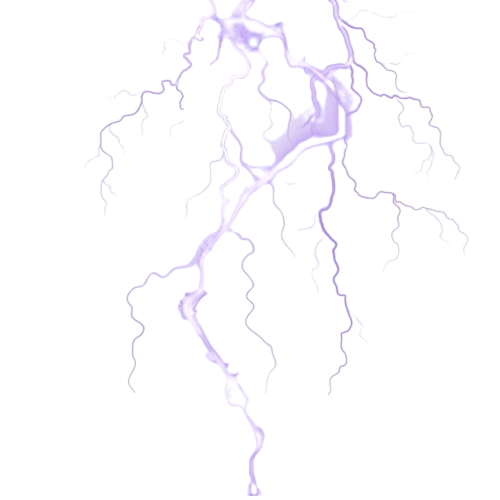
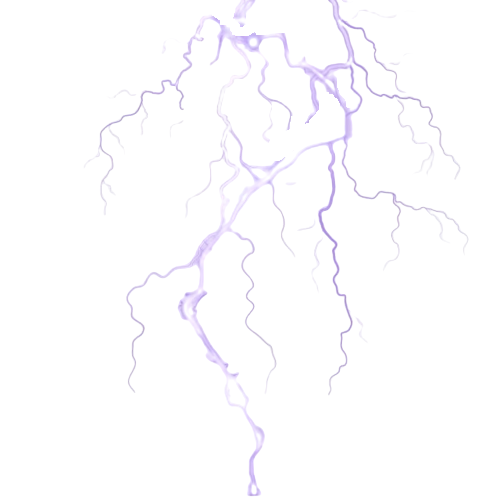
WIP animation gsap

Changed region(s): [[0.54, 0.15, 0.72, 0.33], [0.42, 0.0, 0.57, 0.09]]

diff --git a/pages/index.js b/pages/index.js
@@ -5,15 +5,28 @@ import Link from "next/link";
 import { gsap } from "gsap";
 import { useEffect, useRef } from "react";
 
+import thunder0 from "../public/gsap/thunder0.png";
 import thunder1 from "../public/gsap/thunder1.png";
+import thunder2 from "../public/gsap/thunder2.png";
 
 export default function Home() {
   const shadowBallRef = useRef(null);
+  const thunder0Ref = useRef(null);
   const ThunderRef = useRef(null);
   const thunder1Ref = useRef(null);
   const thunder1Ref2 = useRef(null);
   const thunder1Ref3 = useRef(null);
   const thunder1Ref4 = useRef(null);
+  const thunder1Ref5 = useRef(null);
+  const thunder1Ref6 = useRef(null);
+
+  const thunder2Ref = useRef(null);
+  const thunder2Ref2 = useRef(null);
+  const thunder2Ref3 = useRef(null);
+  const thunder2Ref4 = useRef(null);
+  const thunder2Ref5 = useRef(null);
+  const thunder2Ref6 = useRef(null);
+
 
   useEffect(() => {
     gsap.fromTo(
@@ -29,42 +42,42 @@ export default function Home() {
       }
     );
 
-    // gsap.fromTo(
-    //   thunder1Ref.current,
-    //   {
-    //     rotate: 0,
-    //     scale:0
-    //   },
-    //   {
-    //     rotate: -360,
-    //     repeat: -1,
-    //     duration: 2,
-    //     ease: "none",
-    //     transformOrigin:"56% 0%",
-    //     scale: .5,
-    //     // yoyo: true
-    //   }
-    // );
-    gsap.timeline()
-      .fromTo(ThunderRef.current.children ,{
+    gsap.fromTo(
+      thunder0Ref.current,
+      {
+        rotate: 0,
+        opacity: .4,
+      },
+      {
+        rotate: -360,
+        repeat: -1,
+        duration: 2,
+        ease: "none",
+        opacity: .1
+        // yoyo: true
+      }
+    );
 
-            rotate: 0,
-            scale:0,
-            opacity: 3
-          },
-          {
-            transformOrigin:"56% 0%",
-            repeat: -1,
-            repeatRefresh: true,
-            ease: "none",
-            duration: 2,
-            stagger:"random(0.2, 5)",
-            delay:"random(0.2, 5)",
-            rotate: "random(-360, 360)",
-            scale: .5,
-            opacity: 0
-            // yoyo: true
-          })
+    gsap.timeline()
+      .fromTo(ThunderRef.current.children, {
+
+        rotate: 0,
+        scale: 0,
+        opacity: 3
+      },
+        {
+          transformOrigin: "56% 0%",
+          repeat: -1,
+          repeatRefresh: true,
+          ease: "none",
+          duration: 2,
+          stagger: "random(0.2, 5)",
+          delay: "random(0.2, 5)",
+          rotate: "random(-360, 360)",
+          scale: .5,
+          opacity: 0
+          // yoyo: true
+        })
   }, []);
 
   return (
@@ -83,11 +96,27 @@ export default function Home() {
             src={shadowBall.src}
             className={styles.shadowBall}
           ></img>
+
+            <img ref={thunder0Ref} src={thunder0.src}  className={styles.thunderRings}></img>
+
           <div ref={ThunderRef} className={styles.thunders}>
+
+
             <img ref={thunder1Ref} src={thunder1.src}></img>
             <img ref={thunder1Ref2} src={thunder1.src}></img>
             <img ref={thunder1Ref3} src={thunder1.src}></img>
             <img ref={thunder1Ref4} src={thunder1.src}></img>
+            <img ref={thunder1Ref5} src={thunder1.src}></img>
+            <img ref={thunder1Ref6} src={thunder1.src}></img>
+
+            <img ref={thunder2Ref} src={thunder2.src}></img>
+            <img ref={thunder2Ref2} src={thunder2.src}></img>
+            <img ref={thunder2Ref3} src={thunder2.src}></img>
+            <img ref={thunder2Ref4} src={thunder2.src}></img>
+            <img ref={thunder2Ref5} src={thunder2.src}></img>
+            <img ref={thunder2Ref6} src={thunder2.src}></img>
+
+
           </div>
         </div>
         <img src={alakazam.src} className={styles.img}></img>

diff --git a/styles/Home.module.css b/styles/Home.module.css
@@ -2,6 +2,7 @@
   background: url("../public/background.png");
   width: 100%;
   min-height: 100vh;
+  background-size: cover;
 }
 
 .page p {
@@ -43,9 +44,10 @@
 
 .img {
   position: absolute;
-  bottom: 3rem;
-  right: 3rem;
-  background: url("../public/mega alakazam.gif");
+  bottom: 1rem;
+  right: 1rem;
+  width: 35%;
+  background-repeat: no-repeat;
 }
 
 .containerShadowball {
@@ -58,6 +60,12 @@
 .shadowBall {
     height: 20em;
     position: relative;
+}
+
+.thunderRings{
+  position: absolute;
+  transform: translate(-95%, -5%);
+
 }
 
 .thunders{

diff --git a/styles/rmBooks.module.css b/styles/rmBooks.module.css
@@ -7,6 +7,7 @@
     flex-direction: row;
     justify-content: center;
     align-items: center;
+    text-align: center;
 }
 
 .column {
@@ -17,7 +18,7 @@
     justify-content: center;
     align-items: center;
     gap: 2em;
-    width: 20%;
-    height: 30%;
+    width: 30%;
+    height: 40%;
     border-radius: 10px;
 }

diff --git a/styles/QrCode.module.css b/styles/QrCode.module.css
@@ -13,9 +13,9 @@
     flex-direction: column;
     justify-content: flex-start;
     align-items: center;
-    gap: 2em;
+    gap: 1em;
     width: 30%;
-    height: 50%;
+    height: 60%;
     border-radius: 10px;
     text-align: center;
 }
